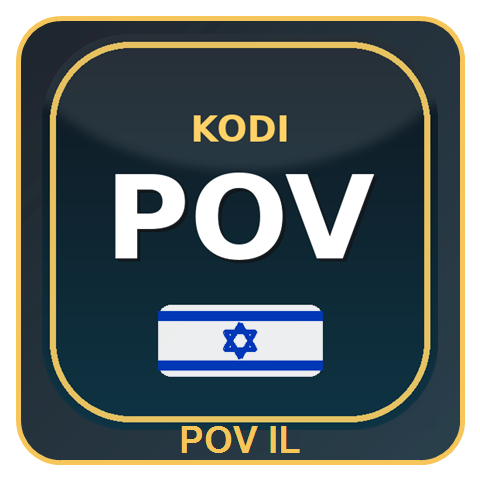
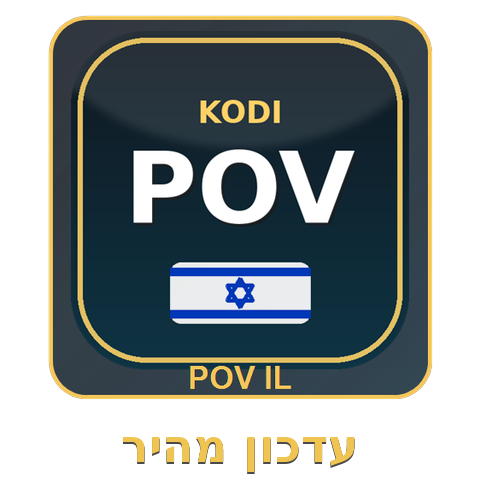
Release AI 0.2.386 / quickfix 0.1.425 / wizard 0.1.31: rebrand + distinct tiles + paid-mode toggle
Three user-requested changes, each validated by a separate reviewer before shipping.

Branding (wizard 0.1.31, ships via build.txt self-update):
- The update-notification frame now reads "KODI POV IL" (was "KODI + REAL DEBRID
  ISRAEL"), and the bottom badge is the POV IL icon (was the RealDebrid KODI logo).
- The quick-update notification now shows a visible "עדכון #<n>" so users can tell
  which update they're on.

Distinct home tiles (AI addon media_assets + patchers; force-synced to FEN /
Estuary / old skin / Arctic Fuse 3 on boot):
- "עדכון מהיר" (quick update) and "אשף ההתקנה" (install wizard) tiles now bake the
  Hebrew label into the image (below the intact POV square), so they stay
  distinguishable when the skin label transiently disappears. Arctic Fuse 3's
  "החלף סקין" tile gets its own switch_skin_pov_il.png (af3_home_patcher rewired;
  added to build_icons_patcher FORCE_SYNC).

Paid-tier fast mode (AI 0.2.386):
- New ai_paid_mode toggle (Translation settings, under Model; default OFF, strings
  he+en #32550/#32551). For a user on a PAID Gemini plan it disables the free-tier
  RPM pacing and floors parallel chunks at 8 (up to 16; parallel_chunks slider max
  raised 8->16). Free tier is byte-for-byte unchanged; translation quality (model/
  thinking) is untouched. Reviewer caught that paid parallelism read the free
  default of 3 -> fixed with max(8, min(16, ...)).

Built by key-preserving surgery (pool.py credential 802ba87a preserved + verified
[…]

diff --git a/addons/service.subtitles.kodipovilai/resources/lib/translate.py b/addons/service.subtitles.kodipovilai/resources/lib/translate.py
@@ -1905,8 +1905,19 @@ def resolve(link, info, progress_cb=None, progressive_cb=None):
     # Global request pacing: keep Gemini request starts under the RPM cap (default
     # 14, safely below the free 15) so we (almost) never hit the per-minute limit
     # in the first place -- no 429s to retry, no wasted requests, no toast spam.
-    # Advanced/paid-tier users can raise `gemini_rpm`.
-    _rpm_interval = 60.0 / max(1, kodi_utils.get_int('gemini_rpm', 14))
+    # `ai_paid_mode` (a paid Gemini plan has thousands of RPM) disables the pacing
+    # entirely, since the free cap only slows a paid key down. An explicitly pinned
+    # `gemini_rpm` still wins in either mode.
+    _paid_mode = kodi_utils.get_bool('ai_paid_mode', False)
+    if _paid_mode:
+        # Paid tier has thousands of RPM, so disable pacing (0 -> the gate no-ops).
+        # An explicitly pinned gemini_rpm still wins.
+        _rpm = kodi_utils.get_int('gemini_rpm', 0)
+        _rpm_interval = (60.0 / _rpm) if _rpm > 0 else 0.0
+    else:
+        # Free tier: UNCHANGED -- clamp to >=1 RPM so a pinned 0/negative can't
+        # accidentally unpace a free key (which would 429-storm the 15 RPM cap).
+        _rpm_interval = 60.0 / max(1, kodi_utils.get_int('gemini_rpm', 14))
     # Show the "rate limited" toast at most ONCE per job (shared across chunks),
     # not once per chunk per retry.
     _ratelimit_notified = [False]
@@ -2259,6 +2270,12 @@ def resolve(link, info, progress_cb=None, progressive_cb=None):
     # advanced settings.
     if whole_subtitle_request:
         parallel = 1
+    elif _paid_mode:
+        # Paid tier: no RPM cap to respect, so run more chunks in flight for a
+        # much faster wall-time. FLOOR at 8 -- the parallel_chunks setting defaults
+        # to 3 (free-tier safe) so we can't rely on its default here; the slider's
+        # max is raised to 16 so a paid user can still tune 8..16 up.
+        parallel = max(8, min(16, kodi_utils.get_int('parallel_chunks', 8)))
     else:
         parallel = max(1, min(8, kodi_utils.get_int(
             'parallel_chunks', 3)))
@@ -2470,13 +2487,14 @@ def resolve(link, info, progress_cb=None, progressive_cb=None):
                 'pool: skipped share -- translation looks incomplete or not '
                 'Hebrew (quality gate)', level='INFO')
 
-    # Append today's Gemini quota usage to the success toast, but
-    # only if the user is on the tracked model (3.1 Flash Lite).
+    # Append today's Gemini quota usage to the success toast, but only if the user
+    # is on the tracked model (3.1 Flash Lite) AND not in paid mode (the "X/1000"
+    # figure is the FREE daily cap, meaningless/misleading for a paid key).
     # Wrapped so a quota-module bug can't drop the toast itself.
     quota_suffix = ''
     try:
         from . import gemini_quota
-        if gemini_quota.is_tracked(model):
+        if gemini_quota.is_tracked(model) and not _paid_mode:
             quota_suffix = ' · ' + gemini_quota.format_status_short()
     except Exception:
         quota_suffix = ''

diff --git a/addons/service.subtitles.kodipovilai/resources/lib/af3_home_patcher.py b/addons/service.subtitles.kodipovilai/resources/lib/af3_home_patcher.py
@@ -356,7 +356,7 @@ HOME_SUBMENU = [
     },
     {
         'label': 'החלף סקין',
-        'icon': 'special://home/media/build_icons/Wizard/wizard_pov_il.png',
+        'icon': 'special://home/media/build_icons/Wizard/switch_skin_pov_il.png',
         'path': 'RunPlugin("plugin://plugin.program.kodipovilwizard/?mode=install&action=build_switch_skin")',
         'target': '',
     },
@@ -396,7 +396,7 @@ POWER_MENU = [
     },
     {
         'label': 'החלף סקין',
-        'icon': 'special://home/media/build_icons/Wizard/wizard_pov_il.png',
+        'icon': 'special://home/media/build_icons/Wizard/switch_skin_pov_il.png',
         'path': 'RunPlugin("plugin://plugin.program.kodipovilwizard/?mode=install&action=build_switch_skin")',
         'target': '',
     },

diff --git a/addons/service.subtitles.kodipovilai/resources/lib/build_icons_patcher.py b/addons/service.subtitles.kodipovilai/resources/lib/build_icons_patcher.py
@@ -37,6 +37,7 @@ FORCE_SYNC = set([
     'Wizard/fast_update.png',
     'Wizard/wizard_pov_il.png',
     'Wizard/wizard.png',
+    'Wizard/switch_skin_pov_il.png',   # AF3 "switch skin" tile (distinct baked text)
 ])
 
 
